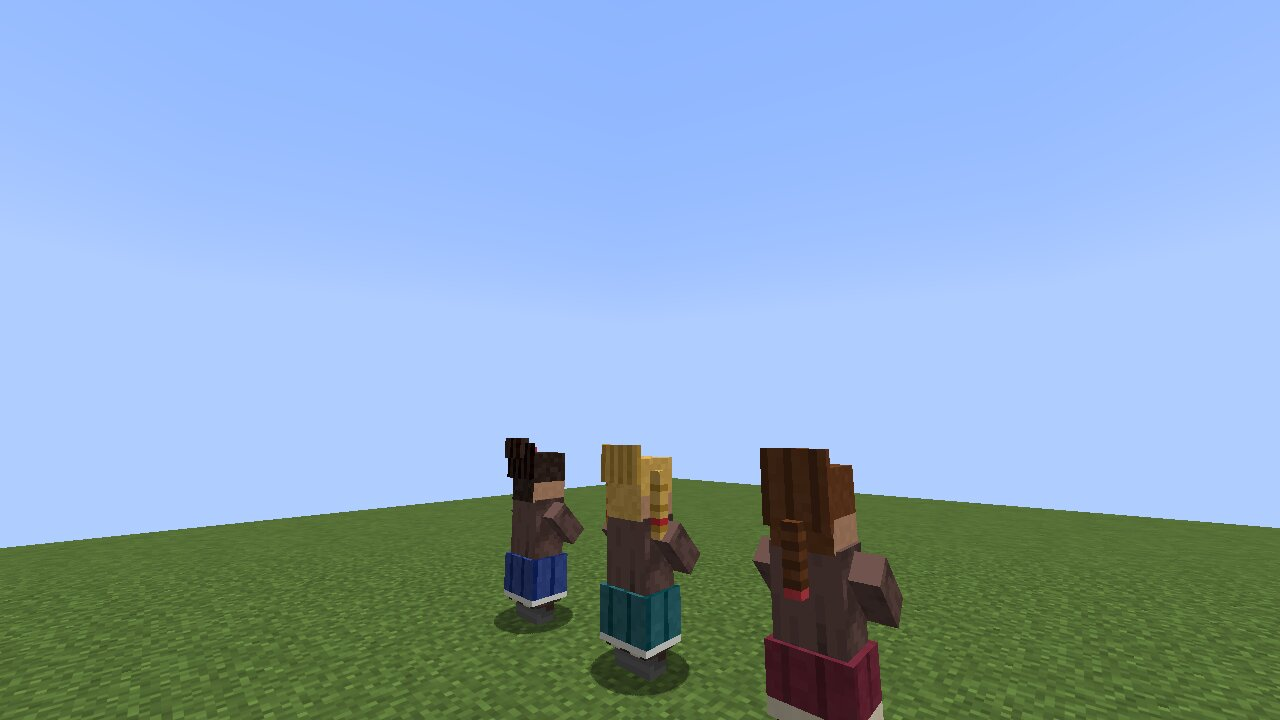
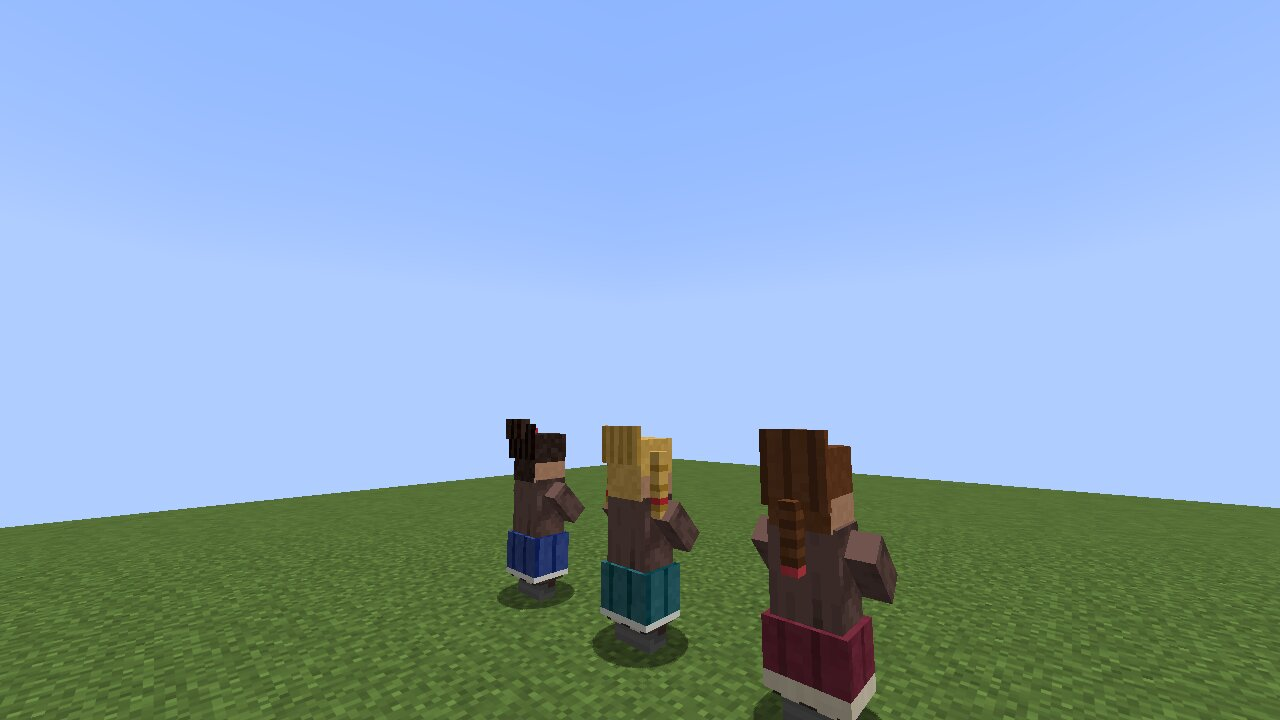
feat: two more looks for villager women
Blonde pigtails with a teal dress and a dark bun with a flower and a
blue dress join the existing braid look. The bits above the gender bit
of the UUID pick the look. Comparison screenshots in
docs/assets/villager-women.

Claude-Session: https://claude.ai/code/session_01EiGtYFxobCFbXvBrcDqVrL

diff --git a/src/gametest/java/net/frank/mc3ver/gametest/VillagerWomanLooksClientGameTest.java b/src/gametest/java/net/frank/mc3ver/gametest/VillagerWomanLooksClientGameTest.java
@@ -7,7 +7,7 @@ import net.fabricmc.fabric.api.client.gametest.v1.context.TestSingleplayerContex
 import net.fabricmc.fabric.api.client.gametest.v1.screenshot.TestScreenshotOptions;
 import net.frank.mc3ver.village.VillagerGenderLogic;
 
-// Alle Aussehen der Bewohnerin nebeneinander, von vorn, von der Seite und schräg von hinten, zum Vergleichen.
+// Alle Aussehen der Bewohnerin nebeneinander, von vorn, schräg von vorn und schräg von hinten, zum Vergleichen.
 // Aufruf: ./gradlew runClientGameTest, Screenshots unter build/run/clientGameTest/screenshots
 public class VillagerWomanLooksClientGameTest implements FabricClientGameTest {
 
@@ -31,8 +31,8 @@ public class VillagerWomanLooksClientGameTest implements FabricClientGameTest {
                 check(VillagerGenderLogic.look(uuid, LOOKS) == look, "UUID wählt falsches Aussehen");
                 summon(X, 1.8 * (look - 1) + 0.5, uuid, game);
             }
-            shot(context, game, "villager_women_front", -0.5, 0.3, 0.5);
-            shot(context, game, "villager_women_side", 3.5, 0.3, -3.8);
+            shot(context, game, "villager_women_front", -1.0, 0.6, 0.5);
+            shot(context, game, "villager_women_diagonal", -0.5, 0.6, -3.5);
             shot(context, game, "villager_women_back", 7.0, 0.6, -2.8);
         }
     }
@@ -40,7 +40,7 @@ public class VillagerWomanLooksClientGameTest implements FabricClientGameTest {
     private static void shot(
             ClientGameTestContext context, TestSingleplayerContext game, String name, double x, double dy, double z) {
         game.getServer()
-                .runCommand("tp @p " + x + " " + (Y + dy) + " " + z + " facing " + X + " " + (Y + 1.4) + " 0.5");
+                .runCommand("tp @p " + x + " " + (Y + dy) + " " + z + " facing " + X + " " + (Y + 1.2) + " 0.5");
         game.getConnection().waitForChunksRender();
         context.waitTicks(20);
         context.takeScreenshot(TestScreenshotOptions.of(name).withSize(1280, 720));

diff --git a/CHANGELOG.md b/CHANGELOG.md
@@ -4,6 +4,11 @@ Alle wichtigen Änderungen am Projekt **WorldExplorerMod (mc-3ver)** werden in d
 
 Das Format basiert auf [Keep a Changelog](https://keepachangelog.com/de/1.0.0/) und das Projekt hält sich an [Semantic Versioning](https://semver.org/lang/de/).
 
+## [0.13.6] - 2026-11-27
+
+### ✨ Neu hinzugefügt
+* **Bewohnerinnen:** Zwei weitere Aussehen: blonde Zöpfe mit türkisem Kleid und dunkler Haarknoten mit Blume und blauem Kleid. Die UUID wählt das Aussehen.
+
 ## [0.13.5] - 2026-11-27
 
 ### 🐛 Behoben

diff --git a/CHANGELOG_EN.md b/CHANGELOG_EN.md
@@ -4,6 +4,11 @@ All notable changes to the **WorldExplorerMod (mc-3ver)** project will be docume
 
 The format is based on [Keep a Changelog](https://keepachangelog.com/en/1.0.0/), and this project adheres to [Semantic Versioning](https://semver.org/spec/v2.0.0.html).
 
+## [0.13.6] - 2026-11-27
+
+### ✨ Added
+* **Villager women:** Two more looks: blonde pigtails with a teal dress, and a dark bun with a flower and a blue dress. The UUID picks the look.
+
 ## [0.13.5] - 2026-11-27
 
 ### 🐛 Fixed
